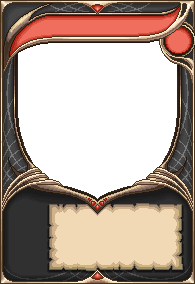
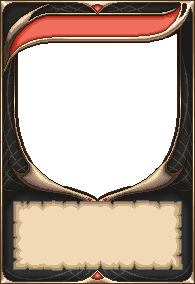
Card face background art: visual tuning, adjusted art + Paint.NET sources
Squashed polish on the image-backed card faces: borders hidden except
when a card is selected; repositioned/resized cost/name/effect text
(per-class name offset, tighter wrap); hand fan margin + hover hit-area
extended s(20) below the card; thicker flash frame; hex layout originY
s(38); deck/discard overlay ROW_H 140 + FACE_SCALE 0.9. cardFaceBase and
PileOverlay both derive the face size from the card-background descriptor
(195x284 at scale 0.5), with aligned 195/2 x 284/2 fallbacks. Adjusted
card_attack/card_skill art (oxipng-optimized; oxipng added as a dev dep)
plus the editable Paint.NET (.pdn) sources.

Changed region(s): [[0.0, 0.0282, 1.0, 0.9577], [0.0, 0.0, 0.4615, 0.1408], [0.5231, 0.0, 0.9231, 0.0563]]

diff --git a/src/scenes/CardController.ts b/src/scenes/CardController.ts
@@ -77,7 +77,7 @@ const discardTotalMs = (n: number): number => (n - 1) * DISCARD_STAGGER_MS + DIS
 const FLASH_IN_MS = 80; // the white frame ramps to full fast
 const FLASH_OUT_MS = 1200; // then fades away
 const FLASH_COLOR = 0xffffff;
-const FLASH_THICKNESS = 2;
+const FLASH_THICKNESS = 3;
 
 /**
  * The card / deck / spell UI (feature 09): a hand fan, a spell sidebar, a deck
@@ -305,7 +305,8 @@ export class CardController {
     card.setData('faceSig', this.cardFaceSignature(def, cost, tempFree));
     this.placeCard(card, i, count, layout, false);
     const { w: hitW, h: hitH } = this.cardFaceBase(); // hit area tracks the face size (matches the art)
-    card.setInteractive(new Phaser.Geom.Rectangle(-s(hitW) / 2, -s(hitH) / 2, s(hitW), s(hitH)), Phaser.Geom.Rectangle.Contains);
+    const hitBot = s(20); // hit area extends off the bottom of the card so hover stays while the mouse is there
+    card.setInteractive(new Phaser.Geom.Rectangle(-s(hitW) / 2, -s(hitH) / 2, s(hitW), s(hitH) + hitBot), Phaser.Geom.Rectangle.Contains);
     card.on('pointerover', () => {
       if (this.armed === null) {
         card.setY((card.getData('homeY') as number) - s(28));
@@ -343,7 +344,7 @@ export class CardController {
    */
   private fanLayout(count: number): { spacing: number; baseX: number; baseY: number } {
     const { width, height } = this.scene.scale;
-    const maxSpan = width - s(192); // outermost card centres stay inside the screen
+    const maxSpan = width - s(250); // outermost card centres stay inside the screen
     const spacing = count > 1 ? Math.min(s(104), maxSpan / (count - 1)) : 0;
     const baseX = width / 2 - ((count - 1) * spacing) / 2;
     const baseY = height - s(52); // tucked: most of each card shows above the bottom edge
@@ -644,13 +645,13 @@ export class CardController {
   }
 
   /**
-   * The card face's base size (px before s()): the background art's native size at its display scale
-   * (assetScale), so the face matches the art's aspect EXACTLY (no squish) and renders natively at the
-   * desktop 2x scale. Attack and skill backgrounds share one size, so either descriptor gives it.
+   * The card face's base size (px before s()): the card-background art (195x284) at its 0.5 display
+   * scale, so the face matches the art's aspect EXACTLY (no squish) and renders natively at the desktop
+   * 2x scale. Attack and skill backgrounds share one size.
    */
   private cardFaceBase(): { w: number; h: number } {
     const d = resolveKey(AssetKeys.cardSkill)?.descriptor;
-    if (d === undefined) return { w: 96, h: 144 }; // unreachable (the key is registered) — safe fallback
+    if (d === undefined) return { w: 195 / 2, h: 284 / 2 }; // unreachable (the key is registered) — safe fallback
     return { w: d.size[0] * assetScale(d), h: d.size[1] * assetScale(d) };
   }
 
@@ -669,25 +670,27 @@ export class CardController {
     const background = this.scene.add.image(0, 0, bgKey).setOrigin(0.5).setDisplaySize(w, h);
     const bg = this.scene.add
       .rectangle(0, 0, w, h, 0x000000, 0) // fill-transparent: only the frame + selection border, over the art
-      .setStrokeStyle(s(2), this.frameColor(def.id))
+      .setStrokeStyle(s(0), this.frameColor(def.id)) // no visible border for cards normally
       .setOrigin(0.5);
     const costText = this.scene.add
-      .text(-w / 2 + s(6), -h / 2 + s(4), `E${cost}`, {
+      .text(-w / 2 + s(6), -h / 2 + s(22), `E${cost}`, {
         fontFamily: 'monospace',
         fontSize: `${s(14)}px`,
         color: tempFree ? '#22c55e' : '#facc15', // green = temporary free; yellow = base/permanent
       })
       .setOrigin(0, 0);
+    const nameOffset = isAttackCard(def.id) ? s(8.5) : s(5.5);
     const name = this.scene.add
-      .text(0, -h / 2 + s(22), def.name, { fontFamily: 'monospace', fontSize: `${s(12)}px`, color: '#e5e7eb' })
+      .text(0, -h / 2 + nameOffset, def.name, { fontFamily: 'monospace', fontSize: `${s(9)}px`, color: '#e5e7eb' })
       .setOrigin(0.5, 0);
+    const effOffset = isAttackCard(def.id) ? s(38) : s(38);
     const eff = this.scene.add
-      .text(0, h / 2 - s(42), def.effectText, {
+      .text(0, h / 2 - effOffset, def.effectText, {
         fontFamily: 'monospace',
-        fontSize: `${s(10)}px`,
+        fontSize: `${s(8)}px`,
         color: '#9ca3af',
         align: 'center',
-        wordWrap: { width: w - s(12) },
+        wordWrap: { width: w - s(24) },
       })
       .setOrigin(0.5, 0);
     c.add([background, bg, costText, name, eff]);
@@ -705,7 +708,7 @@ export class CardController {
   private setCardSelected(card: Phaser.GameObjects.Container, on: boolean): void {
     const bg = card.getData('bg') as Phaser.GameObjects.Rectangle | undefined;
     if (bg === undefined) return;
-    bg.setStrokeStyle(s(2), on ? 0xfacc15 : (card.getData('frameColor') as number));
+    bg.setStrokeStyle(on ? s(2) : s(0), on ? 0xfacc15 : (card.getData('frameColor') as number));
   }
 
   private buildSpellSidebar(): void {

diff --git a/src/scenes/PileOverlay.ts b/src/scenes/PileOverlay.ts
@@ -8,13 +8,13 @@ const OVERLAY_BOTTOM_MARGIN = 24;
 const OVERLAY_PAD = 70; // top pad inside the scroll content so the first row clears the viewport edge
 const OVERLAY_COLS = 5;
 const OVERLAY_COL_W = 110;
-const OVERLAY_ROW_H = 130;
-export const OVERLAY_FACE_SCALE = 0.8; // shared with CardController.makeCardFace so the hit-test matches the art
+const OVERLAY_ROW_H = 140;
+export const OVERLAY_FACE_SCALE = 0.9; // shared with CardController.makeCardFace so the hit-test matches the art
 // Card face footprint (base px, pre-scale) for the tap hit-test — the background art's native size at its
 // display scale (assetScale), matching CardController.makeCardFace exactly so the hit-test tracks the art.
 const CARD_FACE_DESC = resolveKey(AssetKeys.cardSkill)?.descriptor;
-const FACE_W = CARD_FACE_DESC ? CARD_FACE_DESC.size[0] * assetScale(CARD_FACE_DESC) : 96;
-const FACE_H = CARD_FACE_DESC ? CARD_FACE_DESC.size[1] * assetScale(CARD_FACE_DESC) : 144;
+const FACE_W = CARD_FACE_DESC ? CARD_FACE_DESC.size[0] * assetScale(CARD_FACE_DESC) : 195 / 2;
+const FACE_H = CARD_FACE_DESC ? CARD_FACE_DESC.size[1] * assetScale(CARD_FACE_DESC) : 284 / 2;
 const OVERLAY_DEPTH = 2_000_000 + 100; // above the HUD
 const DRAG_THRESHOLD = 8; // px of pointer travel that distinguishes a drag from a tap
 

diff --git a/src/scenes/WorldScene.ts b/src/scenes/WorldScene.ts
@@ -138,7 +138,7 @@ export class WorldScene extends Phaser.Scene {
     this.grid = new HexGrid(GRID_COLS, GRID_ROWS);
     this.sync = new SceneSync(this, HOP_MS);
     // Hex layout in current-scale pixels (s() — must run here, not at module load).
-    this.layout = { width: s(32), height: s(24), rowPitch: s(18), originX: s(96), originY: s(28) };
+    this.layout = { width: s(32), height: s(24), rowPitch: s(18), originX: s(96), originY: s(38) };
     // Hex-snap camera follow. The visible frame is the original 26x21 grid rect (full hexes only); the
     // reference hex sits at the frame's centre-cell screen position so the player is where it was
     // originally, and the scroll is clamped so the frame never reveals anything past the world edge.

diff --git a/src/core/assets/registry.ts b/src/core/assets/registry.ts
@@ -49,7 +49,7 @@ export const GAME_ASSETS: readonly AssetDescriptor[] = [
   asset(AssetKeys.playerAttack2, [128, 128, 0.5], 'same character, attack B, right-facing', 'Player attack variant 2', { frameCount: 7, fps: 12, downPx: -6 }),
   asset(AssetKeys.playerDeath, [128, 128, 0.5], 'same character, death, right-facing', 'Player death'),
 
-  // --- Card UI: static face backgrounds by class. size[2]=0.5 (art is 2x its display size), no sprite ---
+  // --- Card UI: static face backgrounds by class ---
   asset(AssetKeys.cardAttack, [195, 284, 0.5], 'attack-card frame + background', 'Card face background (attack class)'),
   asset(AssetKeys.cardSkill, [195, 284, 0.5], 'skill-card frame + background', 'Card face background (skill class)'),
 

diff --git a/src/core/assets/keys.ts b/src/core/assets/keys.ts
@@ -20,8 +20,7 @@ export const AssetKeys = {
   playerAttack2: 'player.attack2',
   playerDeath: 'player.death',
 
-  // Card UI: static card-face backgrounds by class (underscore keys so they don't read as the
-  // .idle/.walk/.attack character-animation suffix that must be an animated sprite).
+  // Card UI: static card-face backgrounds by class.
   cardAttack: 'card_attack',
   cardSkill: 'card_skill',
 
